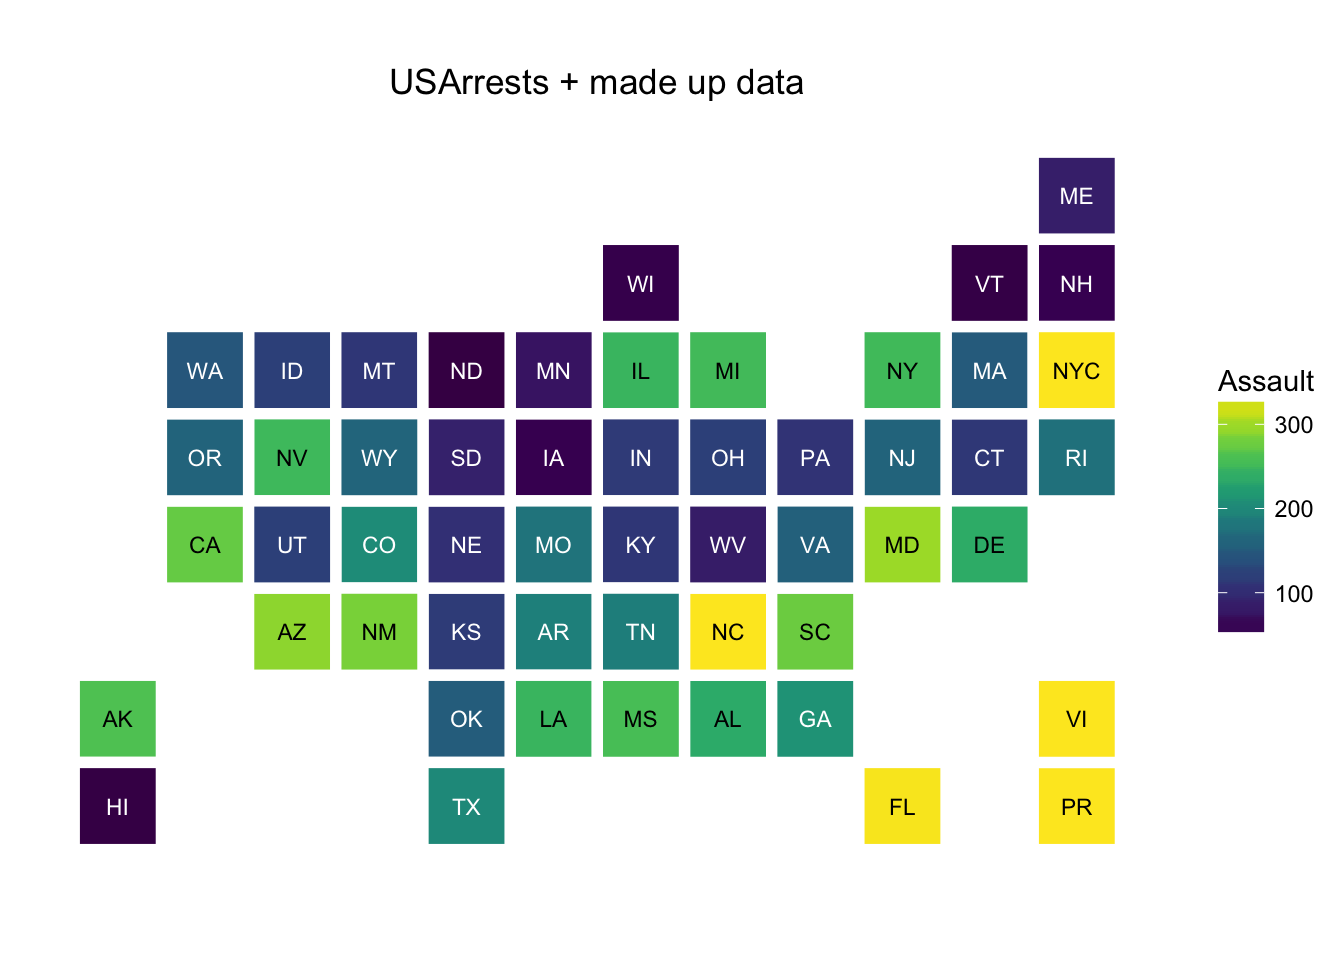
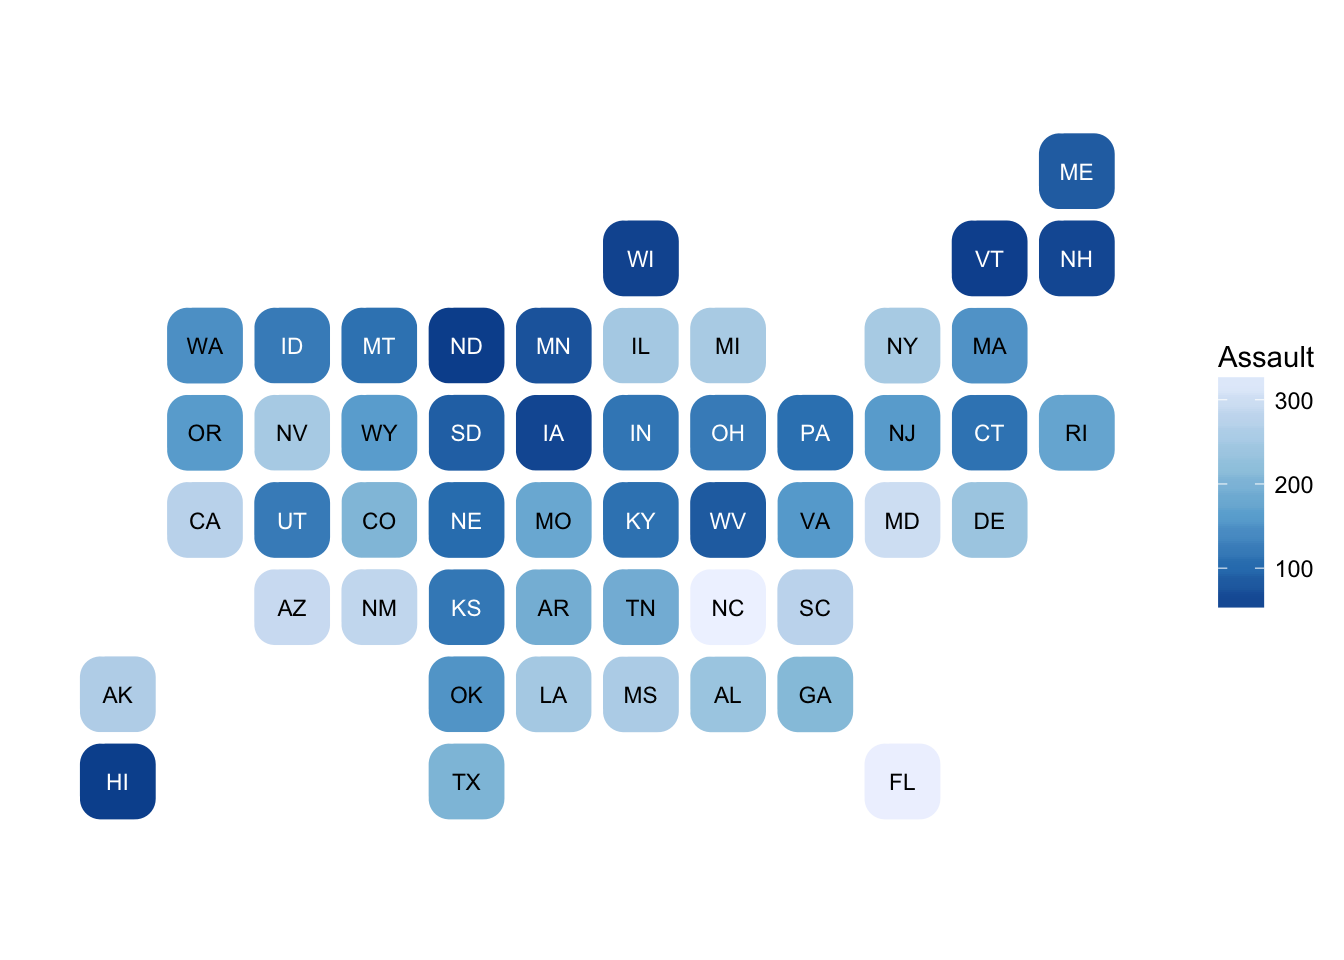
rounded rects

diff --git a/README.md b/README.md
@@ -38,7 +38,7 @@ packageVersion("statebins")
 ``` r
 # the original wapo data
 
-adat <- suppressMessages(read_csv("http://www.washingtonpost.com/wp-srv/special/business/states-most-threatened-by-trade/states.csv?cache=1"))
+adat <- suppressMessages(read_csv(system.file("extdata", "wapostates.csv", package="statebins")))
 
 mutate(
   adat, 
@@ -83,7 +83,7 @@ statebins(adat, value_col = "avgshare08_12", palette = "Purples") +
 # mortality data (has Puerto Rico)
 # from: http://www.cdc.gov/nchs/fastats/state-and-territorial-data.htm
 
-dat <- suppressMessages(read_csv("http://datadrivensecurity.info/data/deaths.csv"))
+dat <- suppressMessages(read_csv(system.file("extdata", "deaths.csv", package="statebins")))
 
 statebins(dat, value_col = "death_rate", name="Per 100K pop") +
   labs(title="Mortality Rate (2010)") +
@@ -105,7 +105,7 @@ statebins(dat, value_col="fertility_rate", name="Per 100K pop", palette="PuBuGn"
 ``` r
 # manual - perhaps good for elections?
 
-election_2012 <- suppressMessages(read_csv("https://raw.githubusercontent.com/hrbrmstr/statebins/master/tmp/election2012.csv"))
+election_2012 <- suppressMessages(read_csv(system.file("extdata", "election2012.csv", package="statebins")))
 
 mutate(election_2012, value = ifelse(is.na(Obama), "Romney", "Obama")) %>% 
   statebins(
@@ -118,6 +118,18 @@ mutate(election_2012, value = ifelse(is.na(Obama), "Romney", "Obama")) %>%
 ```
 
 <img src="README_files/figure-gfm/unnamed-chunk-3-6.png" width="672" />
+
+### Rounded rects\!
+
+``` r
+data(USArrests)
+
+USArrests$state <- rownames(USArrests)
+statebins(USArrests, value_col="Assault", name = "Assault", round=TRUE) +
+  theme_statebins(legend_position="right")
+```
+
+<img src="README_files/figure-gfm/unnamed-chunk-4-1.png" width="672" />
 
 ### All the “states”
 
@@ -150,4 +162,4 @@ statebins(us_arrests, value_col="Assault",
   theme_statebins("right")
 ```
 
-<img src="README_files/figure-gfm/unnamed-chunk-4-1.png" width="672" />
+<img src="README_files/figure-gfm/unnamed-chunk-5-1.png" width="672" />

diff --git a/NEWS.md b/NEWS.md
@@ -2,6 +2,7 @@
 * Added support for `VI`/`Virgin Islands`
 * Supports auto-computation of when to use light & dark label colors
 * New `theme_statebins()`
+* Rounded rectangle support!
 * Completely re-designed the interface and will not be providing backwards-compatibility.
 
 # statebins 1.2.2
